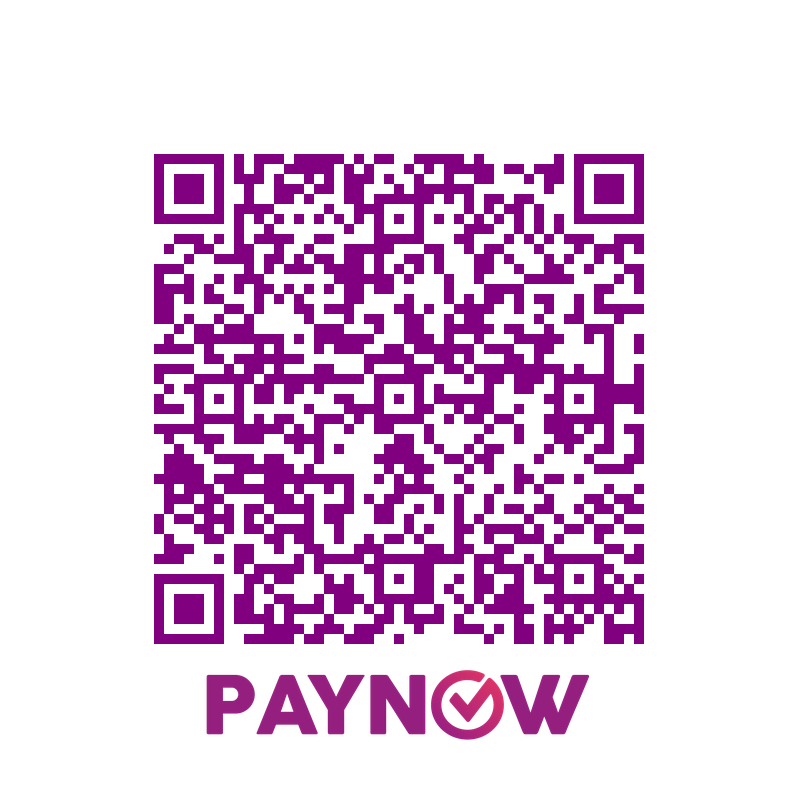
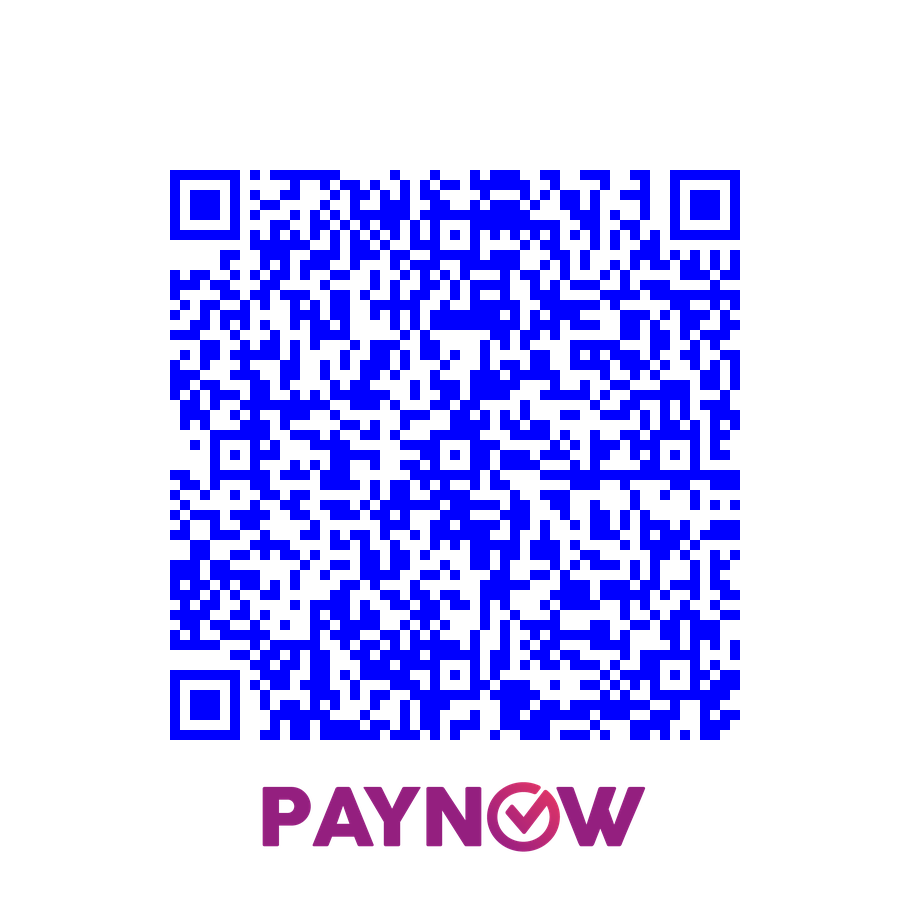
added expiriy date and colour feature, updated cli

diff --git a/paynow.py b/paynow.py
@@ -4,7 +4,7 @@ from PIL import Image, ImageOps
 
 
 class PayNowQR:
-    def __init__(self, recipient_type, recipient_id, recipient_name, amount, reference):
+    def __init__(self, recipient_type, recipient_id, recipient_name, amount, reference, expiry_date="", brand_colour="purple"):
         """
         Initialize the PayNowQR object.
         :param recipient_type: 'UEN' or 'MOBILE'
@@ -12,12 +12,16 @@ class PayNowQR:
         :param recipient_name: Name of recipient
         :param amount: Transaction amount
         :param reference: Reference number
+        :param exipiry_date: Expiry date of the QR code [YYYYMMDD] (optional)
+        :param brand_colour: Colour of the PayNow logo (optional)
         """
         self.recipient_type = recipient_type
         self.recipient_id = recipient_id
         self.recipient_name = recipient_name
         self.amount = "{:.2f}".format(float(amount))
         self.reference = reference
+        self.expiry_date = "{:08d}".format(int(expiry_date)) if expiry_date else "20991230"
+        self.brand_colour = brand_colour
 
     def generate_payload(self):
         """
@@ -32,6 +36,9 @@ class PayNowQR:
         reference_length = f"{len(self.reference):02}"
         recipient_name_length = f"{len(self.recipient_name):02}"
         additional_data_field_length = f"{int(reference_length) + 4:02}"
+        expiry_date_length = f"{len(self.expiry_date):02}"
+        print(f"Expiry Date Length: {expiry_date_length} {self.expiry_date}")
+        
 
         merchant_account_info = (
             "0009SG.PAYNOW"
@@ -42,6 +49,9 @@ class PayNowQR:
             + recipient_id_length
             + self.recipient_id
             + "03010"
+            + "04"
+            + expiry_date_length
+            + self.expiry_date
         )
         merchant_account_info_length = f"{len(merchant_account_info):02}"
 
@@ -71,7 +81,7 @@ class PayNowQR:
 
         return payload + "6304" + checksum
 
-    def generate_qr(self, output_file="paynow_qr.png"):
+    def save(self, output_file="paynow_qr.png"):
         """
         Generate the PayNow QR code image.
         :param output_file: Output file name
@@ -87,7 +97,7 @@ class PayNowQR:
         qr.add_data(payload)
         qr.make(fit=True)
 
-        img = qr.make_image(fill_color="purple", back_color="white").convert("RGB")
+        img = qr.make_image(fill_color=self.brand_colour, back_color="white").convert("RGB")
 
         logo = Image.open("paynow-logo.png")
         logo = logo.resize((1000, 450), Image.LANCZOS)

diff --git a/main.py b/main.py
@@ -13,7 +13,7 @@ def main(
     identifier: Annotated[
         str,
         typer.Argument(
-            help="Mobile number for personal account or UEN number for business account."
+            help="Mobile number for personal account or UEN number for business account. For Mobile, (+65) must be included."
         ),
     ],
     name: Annotated[
@@ -21,9 +21,17 @@ def main(
     ],
     amount: Annotated[float, typer.Argument(help="Amount to be paid.")],
     description: Annotated[str, typer.Argument(help="Description of the payment.")],
+    expiry_date: Annotated[
+        int,
+        typer.Argument(help="Expiry date of the QR code. [YYYMMDD]"),
+    ] = None,
+    brand_colour: Annotated[
+        str,
+        typer.Argument(help="Colour of the PayNow logo."),
+    ] = "purple",
 ):
-    qr = PayNowQR(type, identifier, name, amount, description)
-    qr.generate_qr("paynow_qr.png")
+    qr = PayNowQR(type, identifier, name, amount, description, expiry_date, brand_colour)
+    qr.save("paynow_qr.png")
 
 
 if __name__ == "__main__":

diff --git a/setup.py b/setup.py
@@ -1,11 +1,11 @@
 from setuptools import setup, find_packages
 
 setup(
-    name='paynowqr',
-    version='0.1',
+    name='PayNowQR',
+    version='0.2',
     packages=find_packages(),
     install_requires=["qrcode[pil]"],
-    description='A simple python library to generate PayNow QR codes',
+    description='A simple python library to generate PayNow QR codes in Singapore',
     long_description=open('README.md').read(),
     long_description_content_type='text/markdown',
     author="Evan Khee",

diff --git a/__init__.py b/__init__.py
@@ -1,3 +1,3 @@
 from .paynow import PayNowQR
 
-__version__ = "0.1.0"
+__version__ = "0.2.0"
